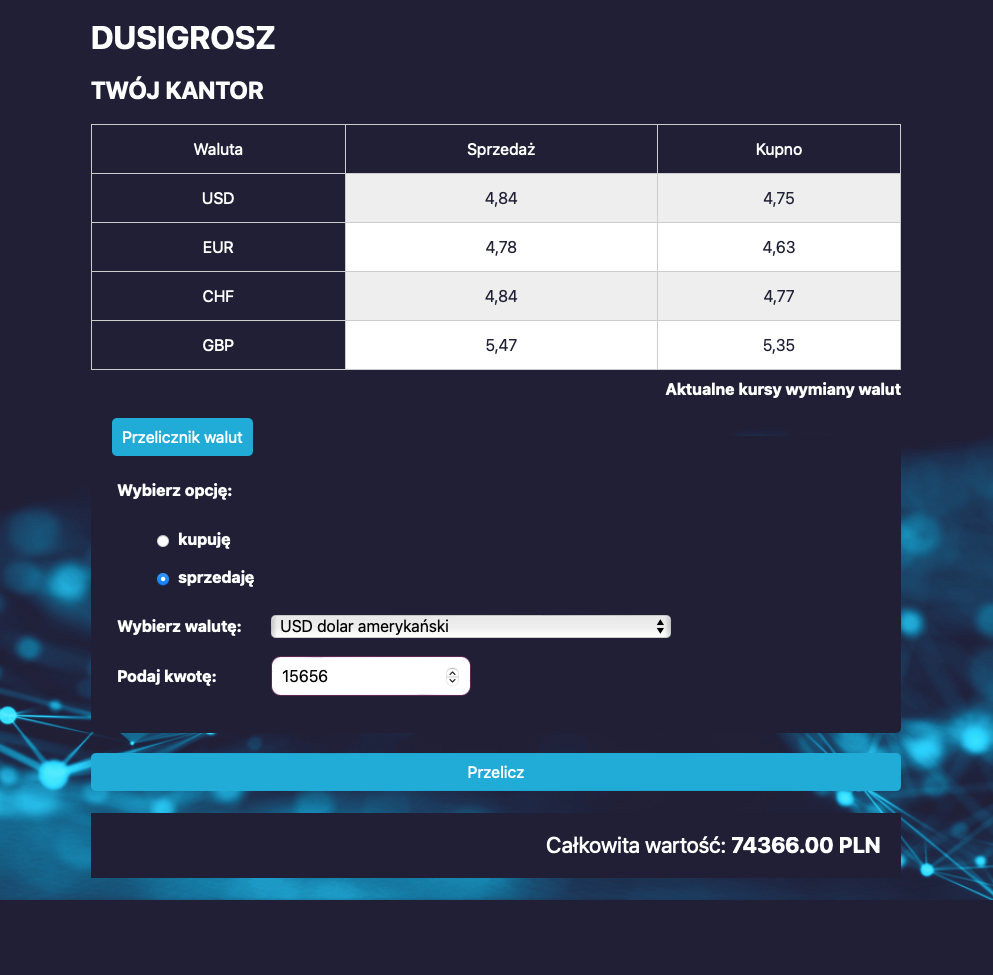
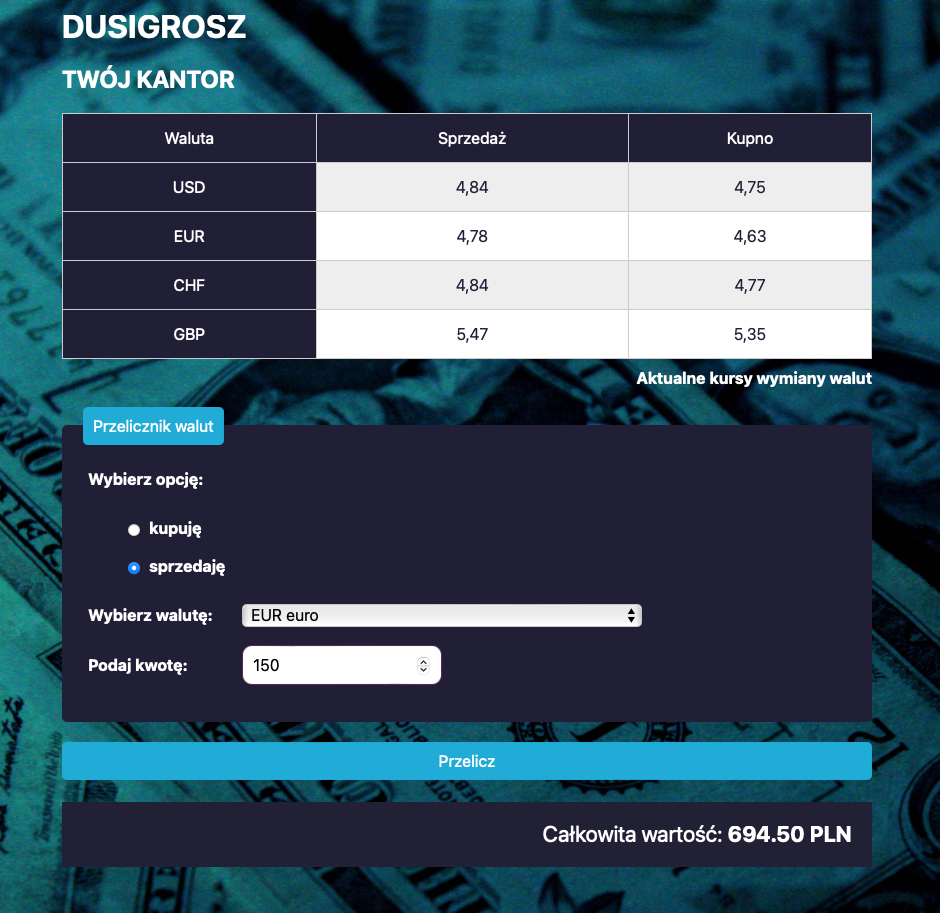
background image changed

diff --git a/css/style.css b/css/style.css
@@ -10,8 +10,10 @@ html {
     color: white;
     font-family: -apple-system, BlinkMacSystemFont, sans-serif;
     margin: 0;
-    background-image: url("../images/4445555.jpg");
+    background-image: url("../images/background2.jpg");
+    background-repeat: no-repeat;
     background-size: cover;
+    height: 100vh;
 }
 
 .main__tableContainer {
@@ -26,7 +28,7 @@ html {
 
 .calculation {
     color: white;
-    background-color: #201e36;
+    background-color: hwb(245 12% 79%);
     font-size: 22px;
     text-align: right;
     padding: 20px;
